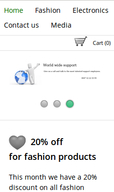
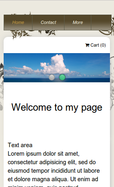
improved design

diff --git a/com.getshop.client/apps/FloralTheme/skin/FloralTheme.css b/com.getshop.client/apps/FloralTheme/skin/FloralTheme.css
@@ -17,20 +17,24 @@ body { background-image: url("{IMAGEFOLDER}/headerbg.png"); background-position:
 .TopMenu { 
     background-image: url("{IMAGEFOLDER}/topmenu_left.png"), url("{IMAGEFOLDER}/topmenu_right.png"); 
     background-position:left, right;
-    background-repeat:no-repeat; min-width: 250px;padding-left: 20px; padding-right:26px; height: 112px; position:absolute; top:20px; }
+    background-repeat:no-repeat; padding-left: 20px; padding-right:26px; height: 112px; position:absolute; top:20px; }
 .TopMenu .breadcrumb-menu { color: #ece8d7; margin: 30px;  background-image: url("{IMAGEFOLDER}/topmenu_menu.png");background-color:#54472a; border: solid 1px #5c5c4c; }
-.TopMenu .breadcrumb-menu a { color: #ece8d7;font-style:italic; padding: 10px; padding-right: 20px; }
+.TopMenu .breadcrumb-menu a { color: #ece8d7;font-style:italic; padding: 10px; padding-right: 20px; padding-left: 20px; }
 .TopMenu .breadcrumb-menu a.selected { color: #c19942; }
-.TopMenu .breadcrumb-menu li { padding-left: 10px; border-right: solid 1px #5c5c4c; }
+.TopMenu .breadcrumb-menu li { border-right: solid 1px #5c5c4c; }
 .breadcrumb .breadcrumb-inner .breadcrumbentry { display:none; }
 .applicationarea { padding: 10px; }
 .footer { background-color: #534629; color:#ece8d7; border-bottom: solid 40px #3a311d; padding-top: 10px; margin-top: 80px; }
 .header .gs_inner .applicationarea { height: 188px; }
 .gs_table_areas { table-layout: fixed; }
 
-.LeftMenu .menuName { 
-background-color: #54472a;
-border: solid 1px #5c5c4c; color:#ece8d7; }
+.LeftMenu .menuName {
+    padding: 10px;
+    background-color: #54472a;
+    border: solid 1px #5c5c4c; color:#ece8d7; 
+}
+
+.TopMenu .subentries { background-color: #54472a;border: solid 1px #5c5c4c; color:#ece8d7; }
 
 
 .frontpage_16 .gs_row.r4 .gs_inner { padding-bottom: 60px; padding-top: 60px;  }
@@ -38,3 +42,11 @@ border: solid 1px #5c5c4c; color:#ece8d7; }
 .frontpage_7 .gs_row.r4 .gs_inner { padding-top: 60px;  }
 .frontpage_9 .gs_row.r4 .gs_inner { padding-top: 60px;  }
 .frontpage_13 .gs_row.r4 .gs_inner { padding-bottom: 60px; padding-top: 60px;   }
+
+@media only all and (max-width: 800px) {
+    body { margin-left: 10px; margin-right: 10px; }
+    .TopMenu { left:0px !important; padding-left: 0px; }
+    .TopMenu .breadcrumb-menu { margin-left: 0px; }
+    .header .gs_inner .applicationarea { height: 70px !important; min-height: 70px !important;}
+    .apparea_app_Banner { padding: 0px !important; margin: 0px !important; }
+}

diff --git a/com.getshop.client/ROOT/js/getshop.Common.js b/com.getshop.client/ROOT/js/getshop.Common.js
@@ -230,6 +230,14 @@ thundashop.common.selectPredefinedConent = function() {
     };
     data = thundashop.common.appendDefaultLayoutData(data);
     data["pagetype"] = $(this).attr('pagetype');
+    
+    if(data["pagemode"] !== "new") {
+        var confirm = thundashop.common.confirm(__f("This will remove all original content for this page, are you sure about this? Use the page layout tab instead if you need to change the layout and keep its page data"));        
+        if(!confirm) {
+            return;
+        }
+    }
+    
 
     $('#informationbox').html('<center><i class="fa fa-spinner fa-spin" style="font-size:40px;"></i></center>');
     var event = thundashop.Ajax.createEvent('', 'selectPredefinedData', $(this), data);

diff --git a/com.getshop.client/apps/LeftMenu/skin/LeftMenu.css b/com.getshop.client/apps/LeftMenu/skin/LeftMenu.css
@@ -69,7 +69,6 @@
     margin-top: 10px;
 }
 
-.LeftMenu .menuName { color: #000; padding-top: 10px; padding-bottom: 10px; padding-left: 10px; border: solid 1px;}
 .LeftMenu .menu_1 { padding-left: 30px; background-image: none; height: 22px; background-color : #{BASECOLOR}; border-bottom: solid 1px rgba(255,255,255,0.3);  }
 .LeftMenu .menu_1 .menuEntry { padding-top: 3px; height: 18px; background-color:#{BASECOLOR}; }
 .LeftMenu .menu_2 .menuName { background-color: transparent; padding-left: 35px; height: 22px; padding-top: 3px; background-color : #{BASECOLOR}; border-bottom: solid 1px rgba(255,255,255,0.3);   }

diff --git a/com.getshop.client/ROOT/js/getshop.Toolbox.js b/com.getshop.client/ROOT/js/getshop.Toolbox.js
@@ -41,6 +41,8 @@ GetShopToolbox.prototype = {
             this.closeButton.hide();
         }
         close.addClass('close');
+        close.addClass('fa');
+        close.addClass('fa-times-circle');
         close.click(function() {
             if (me.config.closeOnClick === false) {
                 me.hidden = true;

diff --git a/com.getshop.client/ROOT/js/getshop.MainMenuToolbox.js b/com.getshop.client/ROOT/js/getshop.MainMenuToolbox.js
@@ -4,7 +4,7 @@ $(document).ready(function() {
     var config = {
         draggable: true,
         closeOnClick: false,
-        title: __f("MainMenu"),
+        title: __f("Menu"),
         items: [
             {
                 icontype: "awesome",

diff --git a/com.getshop.client/ROOT/skin/default/framework.php b/com.getshop.client/ROOT/skin/default/framework.php
@@ -1191,9 +1191,8 @@ box-shadow: 0px 0px 3px rgba(22, 52, 239, 0.9);
 }
 
 .GetShopToolbox {
+border-bottom: solid 1px #3f3f3f;
 z-index: 20;
-background-color : #FFF;
-border: solid 1px #BBB;
 }   
 
 .GetShopToolbox .toolboxgroup .toolboxgroup {
@@ -1208,27 +1207,40 @@ display: none;
 
 .GetShopToolbox .seperator,
 .GetShopToolbox .title {
-text-align: center;
+height: 18px;
+padding-top: 2px;
+padding-left: 5px;
+text-align:center;
+color:#FFF;
+border-top-left-radius:8px;
+border-top-right-radius:8px;
 font-size: 12px;
-background-color: #DDD;
+background-color: #3f3f3f;
 cursor: move;
 }
 
 .GetShopToolbox .item {
-width: 50px;
+width: 48px;
 height: 45px;
 text-align: center;
 position: relative;
 padding-top: 5px;
 }
 
+.GetShopToolbox .item:hover .fa { color:#52e5ac; }
 .GetShopToolbox .item:hover {
 cursor: pointer;
-background-image: url('/skin/default/images/toolboxrowbackground-hover.png');
 }
 
 .GetShopToolbox .row {
-background-image: url('/skin/default/images/toolboxrowbackground.png');
+    border-left: solid 1px #3f3f3f;
+    border-right: solid 1px #3f3f3f;
+    background-color:#4e4e4e;
+    border-top: solid 1px #cccccc;
+}
+
+.GetShopToolbox .item:first-child { 
+    border-right: solid 1px #cccccc;
 }
 
 .GetShopToolbox .item.active {
@@ -1239,10 +1251,10 @@ background-color: green;
 cursor: pointer;
 width: 20px;
 height: 20px;
-background-image: url('/skin/default/elements/close2.png');
 position: absolute;
-top: -10px;
-right: -10px;
+top: 1px;
+color:#FFF;
+right: -3px;
 }
 
 .GetShopToolbox .item img {
